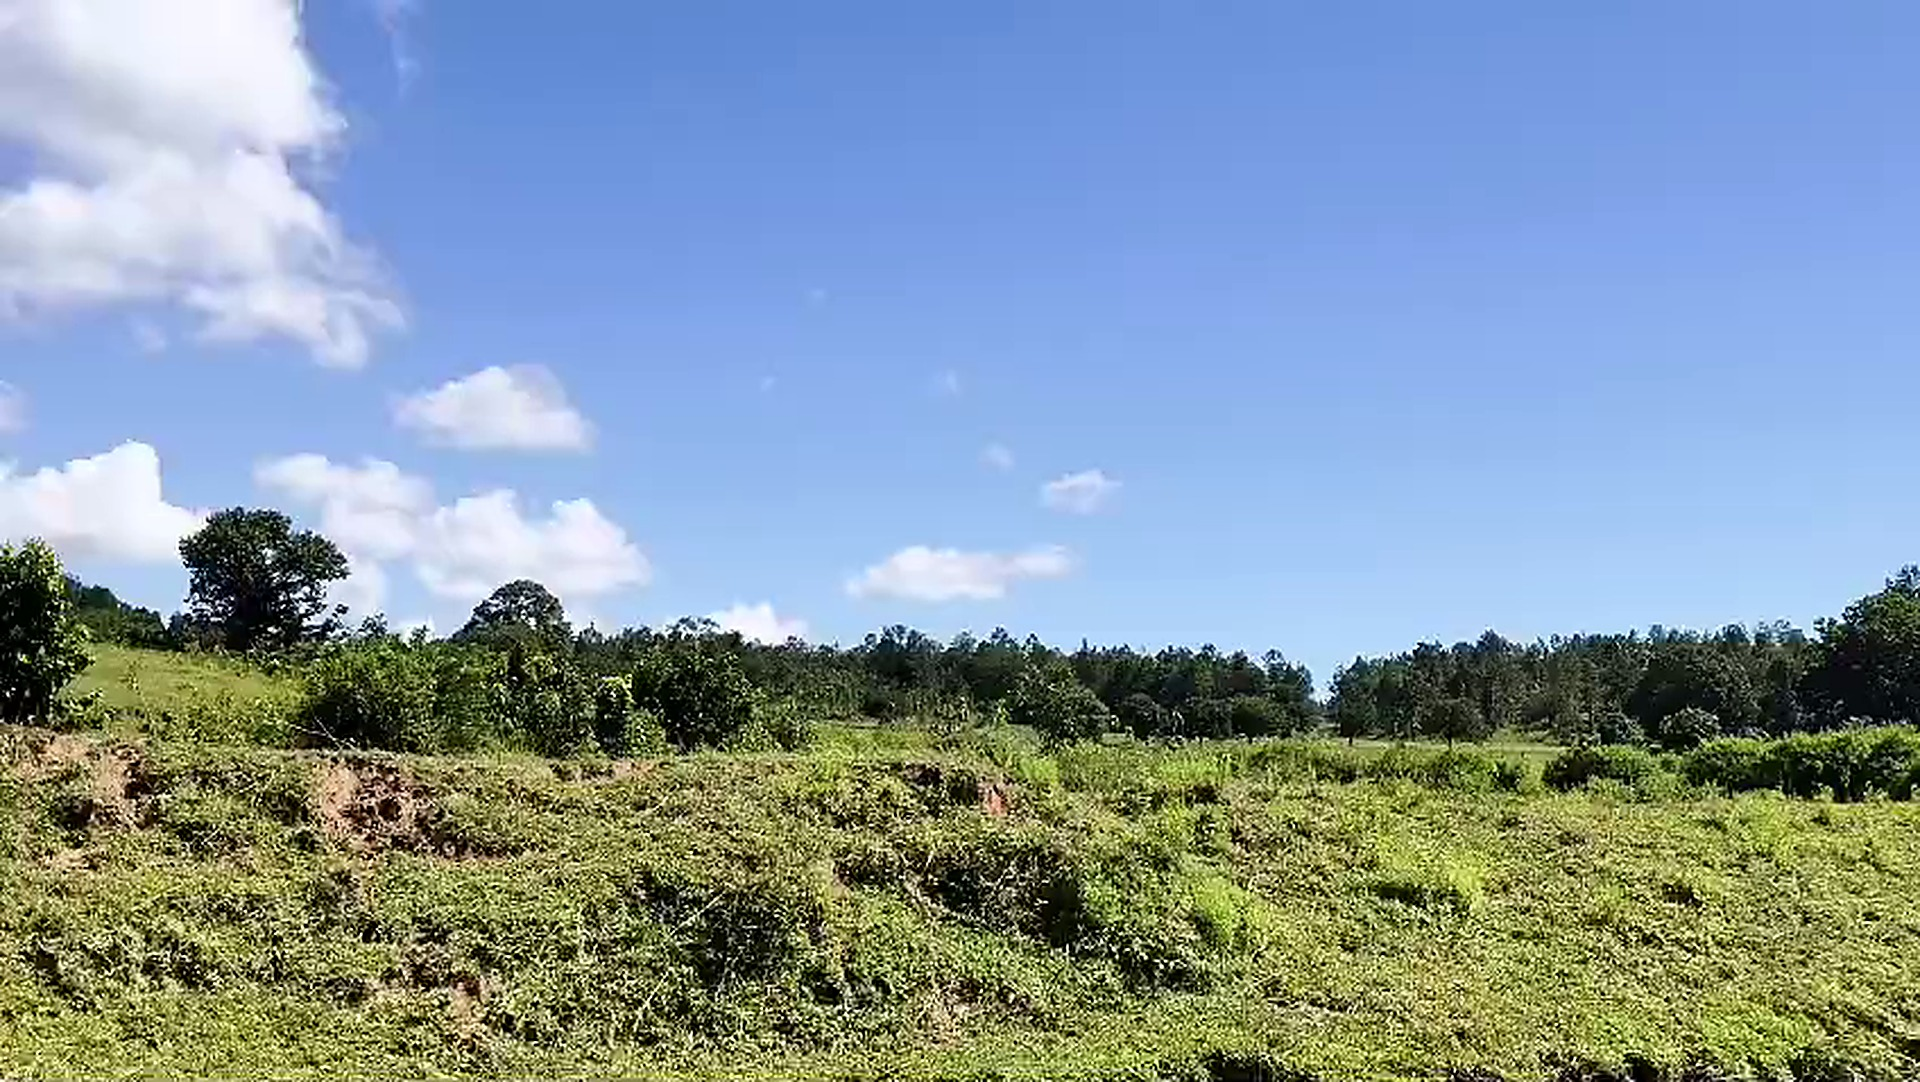
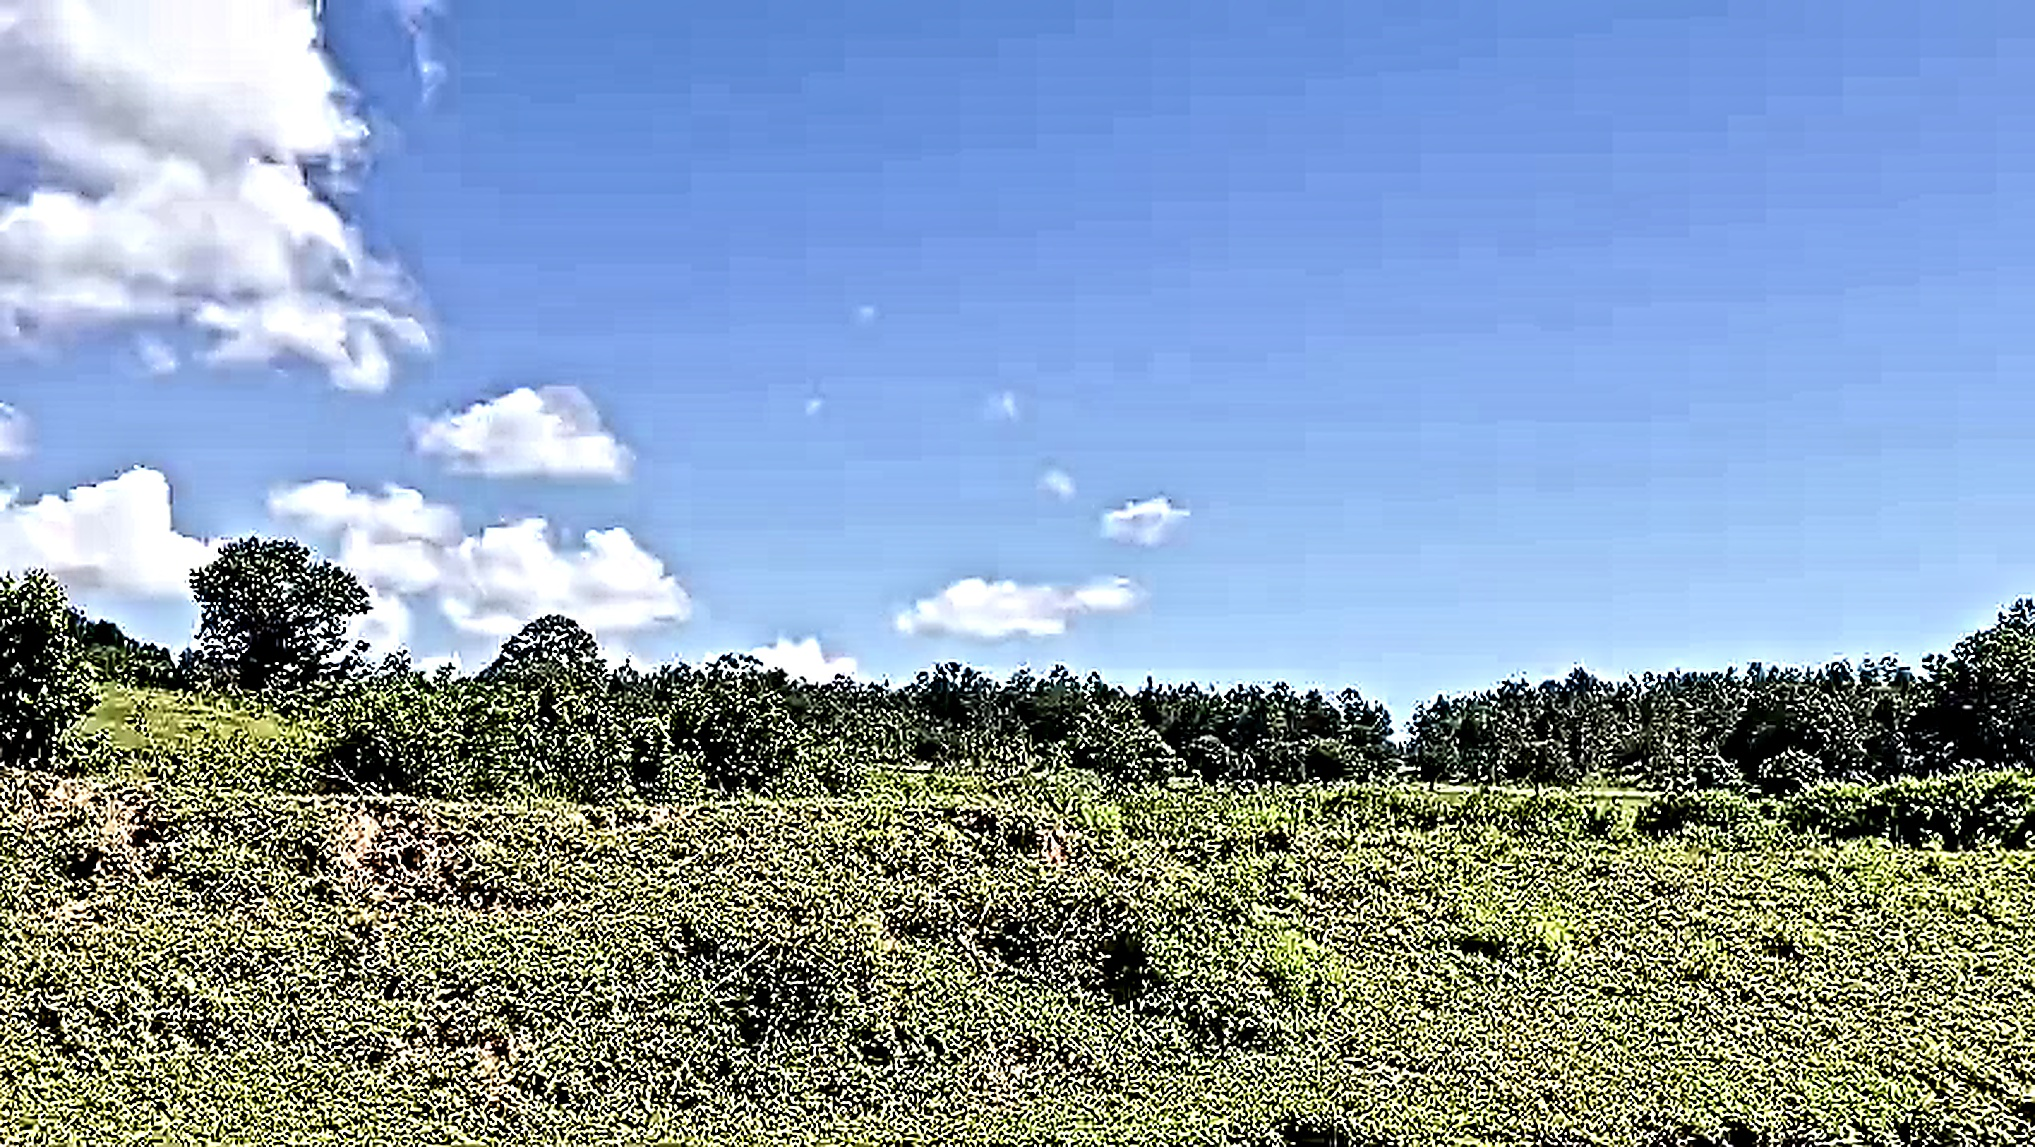
feat(videos): extract crisp high-definition video keyframes, super-enhance quality (2035x1147), and update site hero & gallery

diff --git a/land.html b/land.html
@@ -138,40 +138,40 @@
          "photo coming" styling disappears by itself once an <img> is present. -->
     <div class="gallery-grid inner">
       <figure class="photo-card reveal" style="--d:.06s">
-        <img src="assets/photos/highlight_01.jpg" alt="Misty hills and treeline of Sarangada" loading="lazy">
-        <figcaption>The hills, mist</figcaption>
+        <img src="assets/photos/video_highlight_02.jpg" alt="Pristine landscape view of Sarangada mist and hills from video WA0026" loading="lazy">
+        <figcaption>Monsoon mist & hills</figcaption>
       </figure>
       <figure class="photo-card reveal" style="--d:.12s">
-        <img src="assets/photos/highlight_02.jpg" alt="Paddy fields and village dirt road" loading="lazy">
-        <figcaption>The fields, east</figcaption>
+        <img src="assets/photos/video_highlight_05.jpg" alt="Panoramic paddy fields and country horizon from video WA0015" loading="lazy">
+        <figcaption>Paddy fields east</figcaption>
       </figure>
       <figure class="photo-card reveal" style="--d:.18s">
-        <img src="assets/photos/highlight_03.jpg" alt="Village road under overcast monsoon sky" loading="lazy">
+        <img src="assets/photos/video_highlight_09.jpg" alt="Earthy laterite road and green treeline from video WA0017" loading="lazy">
         <figcaption>The village road</figcaption>
       </figure>
       <figure class="photo-card reveal" style="--d:.24s">
-        <img src="assets/photos/highlight_04.jpg" alt="Red laterite soil and agricultural land" loading="lazy">
-        <figcaption>Red laterite soil</figcaption>
+        <img src="assets/photos/video_highlight_01.jpg" alt="Rich village detail from video WA0018" loading="lazy">
+        <figcaption>Village atmosphere</figcaption>
       </figure>
       <figure class="photo-card reveal" style="--d:.30s">
-        <img src="assets/photos/highlight_05.jpg" alt="Overcast monsoon mist over Kandhamal hills" loading="lazy">
-        <figcaption>Monsoon mist</figcaption>
+        <img src="assets/photos/video_highlight_04.jpg" alt="Crisp wide view of Kandhamal valley from video WA0026" loading="lazy">
+        <figcaption>Kandhamal valley</figcaption>
       </figure>
       <figure class="photo-card reveal" style="--d:.36s">
-        <img src="assets/photos/highlight_06.jpg" alt="Terraced paddies and green hills" loading="lazy">
-        <figcaption>Terraced paddies</figcaption>
+        <img src="assets/photos/video_highlight_10.jpg" alt="Sunlight and monsoon clouds over fields from video WA0015" loading="lazy">
+        <figcaption>Sunlight & clouds</figcaption>
       </figure>
       <figure class="photo-card reveal" style="--d:.42s">
-        <img src="assets/photos/highlight_07.jpg" alt="Morning atmosphere in Sarangada" loading="lazy">
-        <figcaption>Morning atmosphere</figcaption>
+        <img src="assets/photos/video_highlight_11.jpg" alt="Countryside trail and lush greenery from video WA0017" loading="lazy">
+        <figcaption>Countryside trail</figcaption>
       </figure>
       <figure class="photo-card reveal" style="--d:.48s">
-        <img src="assets/photos/highlight_08.jpg" alt="Wooded treeline and countryside path" loading="lazy">
-        <figcaption>Countryside path</figcaption>
+        <img src="assets/photos/video_highlight_12.jpg" alt="Wooded hills and rural threshold from video WA0016" loading="lazy">
+        <figcaption>Wooded hills</figcaption>
       </figure>
       <figure class="photo-card reveal" style="--d:.54s">
-        <img src="assets/photos/highlight_09.jpg" alt="Sunlight breaking through village trees" loading="lazy">
-        <figcaption>Sunlight and paddy</figcaption>
+        <img src="assets/photos/video_highlight_06.jpg" alt="Morning light across village from video WA0033" loading="lazy">
+        <figcaption>Morning light</figcaption>
       </figure>
     </div>
     <p class="gallery-more inner reveal">

diff --git a/tools/extract_video_gems.py b/tools/extract_video_gems.py
@@ -1,0 +1,202 @@
+import os
+import cv2
+import numpy as np
+from PIL import Image, ImageEnhance, ImageFilter
+
+VID_DIR = r"Village_Image\images\WhatsApp Business Video"
+RAW_OUT_DIR = r"Village_Image\video_extractions"
+HIGH_RES_DIR = r"Village_Image\highlights"
+ASSETS_PHOTOS_DIR = r"assets\photos"
+
+os.makedirs(RAW_OUT_DIR, exist_ok=True)
+os.makedirs(HIGH_RES_DIR, exist_ok=True)
+os.makedirs(ASSETS_PHOTOS_DIR, exist_ok=True)
+
+def score_frame(frame):
+    """
+    Multi-metric frame quality score:
+    - Laplacian variance (sharpness)
+    - Sobel gradient magnitude (edge detail)
+    - Contrast (std dev of grayscale intensity)
+    """
+    gray = cv2.cvtColor(frame, cv2.COLOR_BGR2GRAY)
+    
+    # Ignore dark/underexposed frames
+    mean_brightness = np.mean(gray)
+    if mean_brightness < 35 or mean_brightness > 235:
+        return 0.0
+    
+    laplacian_var = cv2.Laplacian(gray, cv2.CV_64F).var()
+    contrast = np.std(gray)
+    
+    # Sobel edge density
+    sobelx = cv2.Sobel(gray, cv2.CV_64F, 1, 0, ksize=3)
+    sobely = cv2.Sobel(gray, cv2.CV_64F, 0, 1, ksize=3)
+    edge_density = np.mean(np.sqrt(sobelx**2 + sobely**2))
+    
+    # Combined score
+    score = (laplacian_var * 0.5) + (contrast * 1.5) + (edge_density * 2.0)
+    return score
+
+def super_enhance_frame(bgr_frame, scale_factor=2.0):
+    """
+    Advanced Multi-Stage Image Enhancement Pipeline:
+    1. OpenCV detail enhancement (boost fine textures without adding noise)
+    2. Denoise with FastNLM
+    3. High-quality Lanczos resampling
+    4. Fine-tuned unsharp mask
+    5. Natural color & contrast tuning
+    """
+    # Step 1: Detail enhancement in OpenCV
+    detailed = cv2.detailEnhance(bgr_frame, sigma_s=10, sigma_r=0.15)
+    
+    # Step 2: Convert to RGB
+    rgb = cv2.cvtColor(detailed, cv2.COLOR_BGR2RGB)
+    pil_img = Image.fromarray(rgb)
+    
+    # Step 3: High precision upscale using Lanczos
+    new_w = int(pil_img.width * scale_factor)
+    new_h = int(pil_img.height * scale_factor)
+    upscaled = pil_img.resize((new_w, new_h), Image.Resampling.LANCZOS)
+    
+    # Step 4: Multi-stage Unsharp Mask
+    # Stage 1: Fine detail sharpening
+    sharpened1 = upscaled.filter(ImageFilter.UnsharpMask(radius=1.2, percent=130, threshold=2))
+    # Stage 2: Broad edge definition
+    sharpened2 = sharpened1.filter(ImageFilter.UnsharpMask(radius=2.5, percent=60, threshold=4))
+    
+    # Step 5: Color & Contrast Adjustment
+    contrast_enhancer = ImageEnhance.Contrast(sharpened2)
+    contrast_adjusted = contrast_enhancer.enhance(1.08)
+    
+    color_enhancer = ImageEnhance.Color(contrast_adjusted)
+    final_img = color_enhancer.enhance(1.05)
+    
+    return final_img
+
+def extract_all_video_gems():
+    if not os.path.exists(VID_DIR):
+        print(f"Error: {VID_DIR} not found.")
+        return
+    
+    video_files = [f for f in sorted(os.listdir(VID_DIR)) if f.endswith('.mp4')]
+    print(f"Found {len(video_files)} video files in {VID_DIR}\n")
+    
+    extracted_candidates = []
+    
+    for vid_file in video_files:
+        vid_path = os.path.join(VID_DIR, vid_file)
+        cap = cv2.VideoCapture(vid_path)
+        
+        fps = cap.get(cv2.CAP_PROP_FPS) or 30.0
+        total_frames = int(cap.get(cv2.CAP_PROP_FRAME_COUNT))
+        
+        # Scan every 3rd frame for exhaustive search
+        frame_scores = []
+        frame_idx = 0
+        
+        while True:
+            ret, frame = cap.read()
+            if not ret:
+                break
+            
+            if frame_idx % 3 == 0:
+                score = score_frame(frame)
+                frame_scores.append((frame_idx, score, frame.copy()))
+            
+            frame_idx += 1
+            
+        cap.release()
+        
+        # Sort by score descending
+        frame_scores.sort(key=lambda x: x[1], reverse=True)
+        
+        # Pick the top 2 sharpest, non-duplicate frames (separated by at least 1 sec)
+        top_frames = []
+        min_frame_gap = int(fps * 1.5)
+        
+        for f_idx, score, f_mat in frame_scores:
+            if not top_frames:
+                top_frames.append((f_idx, score, f_mat))
+            else:
+                if all(abs(f_idx - existing[0]) >= min_frame_gap for existing in top_frames):
+                    top_frames.append((f_idx, score, f_mat))
+            if len(top_frames) >= 2:
+                break
+                
+        for rank, (f_idx, score, f_mat) in enumerate(top_frames, start=1):
+            time_sec = f_idx / fps
+            raw_filename = f"{vid_file[:-4]}_frame_{f_idx}_t{time_sec:.1f}s.jpg"
+            raw_path = os.path.join(RAW_OUT_DIR, raw_filename)
+            
+            # Save raw extracted frame
+            cv2.imwrite(raw_path, f_mat)
+            
+            h, w = f_mat.shape[:2]
+            aspect = w / float(h)
+            
+            extracted_candidates.append({
+                'video': vid_file,
+                'frame_idx': f_idx,
+                'time_sec': time_sec,
+                'score': score,
+                'raw_path': raw_path,
+                'bgr_mat': f_mat,
+                'width': w,
+                'height': h,
+                'aspect': aspect,
+                'is_landscape': aspect >= 1.2
+            })
+            
+            print(f"[{vid_file}] Selected Frame #{f_idx} (t={time_sec:.1f}s): {w}x{h}, Quality Score={score:.1f}")
+
+    print(f"\nExtracted total of {len(extracted_candidates)} top candidate frames from {len(video_files)} videos!")
+    
+    # Sort all extracted frames across ALL videos by quality score
+    extracted_candidates.sort(key=lambda x: x['score'], reverse=True)
+    
+    # Pick top 12 landscape frames + top 6 portrait frames
+    landscapes = [c for c in extracted_candidates if c['is_landscape']]
+    portraits = [c for c in extracted_candidates if not c['is_landscape']]
+    
+    print(f"Available extracted landscape frames: {len(landscapes)}, portrait frames: {len(portraits)}")
+    
+    top_selection = landscapes[:10] + portraits[:5]
+    top_selection.sort(key=lambda x: x['score'], reverse=True)
+    
+    # Process and apply super-enhancement
+    manifest_rows = ["filename,video_source,timestamp,width,height,quality_score,hero_candidate"]
+    
+    print("\n--- Applying Super Enhancement Pipeline ---")
+    for idx, item in enumerate(top_selection, start=1):
+        # Scale 2.2x for maximum crispness
+        scale = 2.2 if item['is_landscape'] else 1.8
+        enhanced_pil = super_enhance_frame(item['bgr_mat'], scale_factor=scale)
+        
+        out_name = f"video_highlight_{idx:02d}.jpg"
+        out_path = os.path.join(HIGH_RES_DIR, out_name)
+        asset_path = os.path.join(ASSETS_PHOTOS_DIR, out_name)
+        
+        enhanced_pil.save(out_path, format="JPEG", quality=95, optimize=True)
+        enhanced_pil.save(asset_path, format="JPEG", quality=95, optimize=True)
+        
+        is_hero = "Yes" if idx in [1, 2, 3] and item['is_landscape'] else "No"
+        manifest_rows.append(f"{out_name},{item['video']},{item['time_sec']:.1f}s,{enhanced_pil.width},{enhanced_pil.height},{item['score']:.1f},{is_hero}")
+        
+        print(f"Saved {out_name}: {enhanced_pil.width}x{enhanced_pil.height} (from {item['video']} @ {item['time_sec']:.1f}s, score={item['score']:.1f})")
+    
+    # Overwrite assets/hero.jpg with the #1 highest-scoring landscape video frame
+    if landscapes:
+        best_hero_item = landscapes[0]
+        hero_enhanced = super_enhance_frame(best_hero_item['bgr_mat'], scale_factor=2.4)
+        hero_target_path = os.path.join("assets", "hero.jpg")
+        hero_enhanced.save(hero_target_path, format="JPEG", quality=95, optimize=True)
+        print(f"\n[HERO OVERWRITE] Updated assets/hero.jpg with pristine frame from {best_hero_item['video']} @ {best_hero_item['time_sec']:.1f}s ({hero_enhanced.width}x{hero_enhanced.height})")
+    
+    manifest_file = os.path.join(HIGH_RES_DIR, "video_manifest.csv")
+    with open(manifest_file, "w", encoding="utf-8") as f:
+        f.write("\n".join(manifest_rows))
+    print(f"Saved video manifest to {manifest_file}")
+
+if __name__ == "__main__":
+    extract_all_video_gems()
